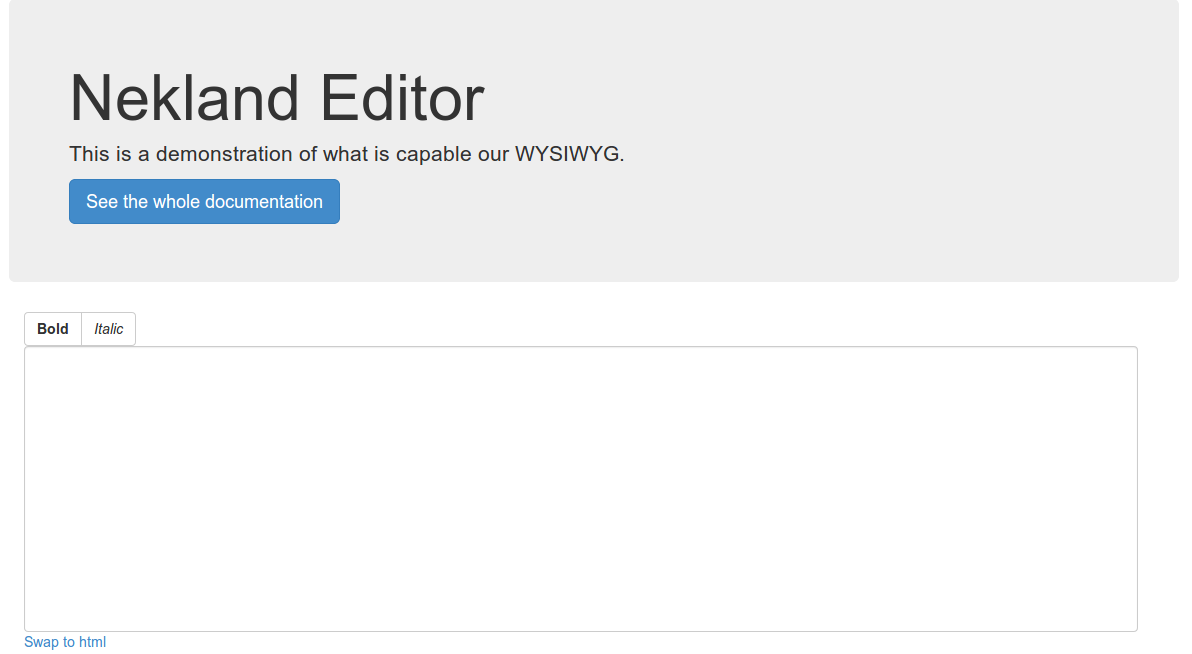
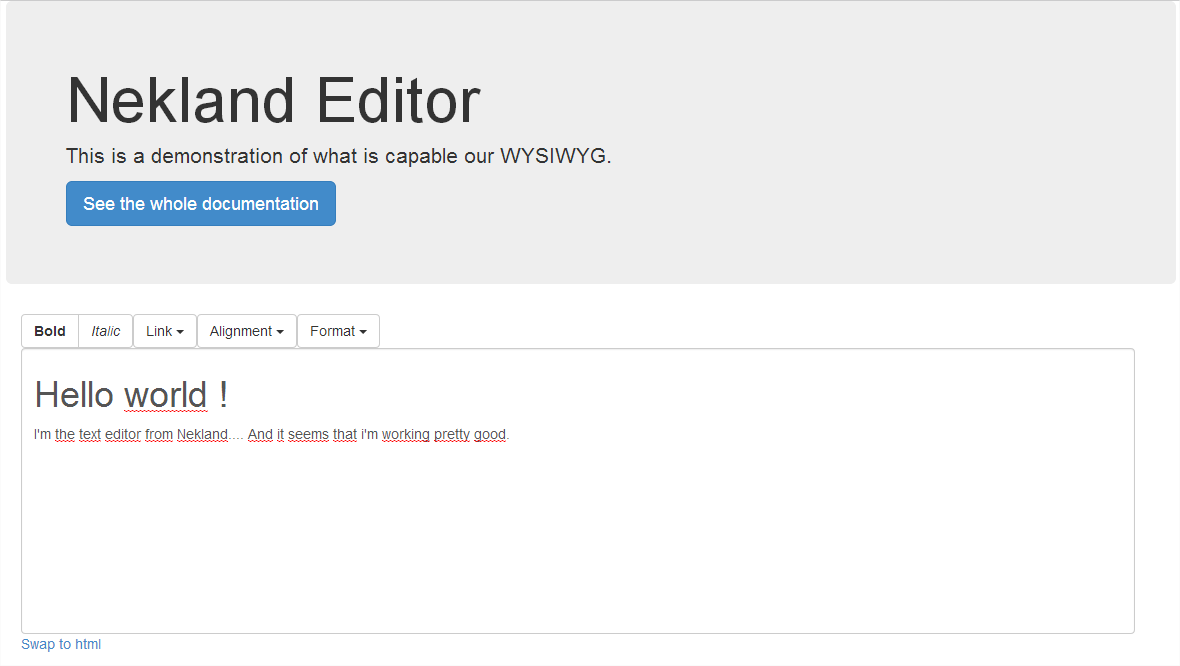
Updated information files

diff --git a/README.md b/README.md
@@ -2,7 +2,7 @@ Nekland Editor
 ==============
 
 Warning: This script is currently in hard-development (in facts, you can talk about "heavy dev").
-
+![Nekland Editor Logo](https://raw.github.com/Nekland/Editor/master/logo.png)
 
 Why the fuck dev one more WYSIWYG ?
 -----------------------------------
@@ -30,3 +30,5 @@ Nekland editor is not
 
   * Compatible with old browsers
   * Perfect (for now)
+
+![Screenshot](https://raw.github.com/Nekland/Editor/master/logo.png)

diff --git a/CHANGELOG.md b/CHANGELOG.md
@@ -1,6 +1,21 @@
 Changelog
 =========
 
+0.0.3:
+------
+
+**Still alpha version**
+
+New Features:
+* Added alignment module
+* Added format module
+* Css file for buttons formating (see release folder)
+
+Bugfix:
+* Chrome generate now clean code =)
+* Fix little mistake in the DOM API of the editor
+* Improved documentation
+
 0.0.2:
 ------
 
